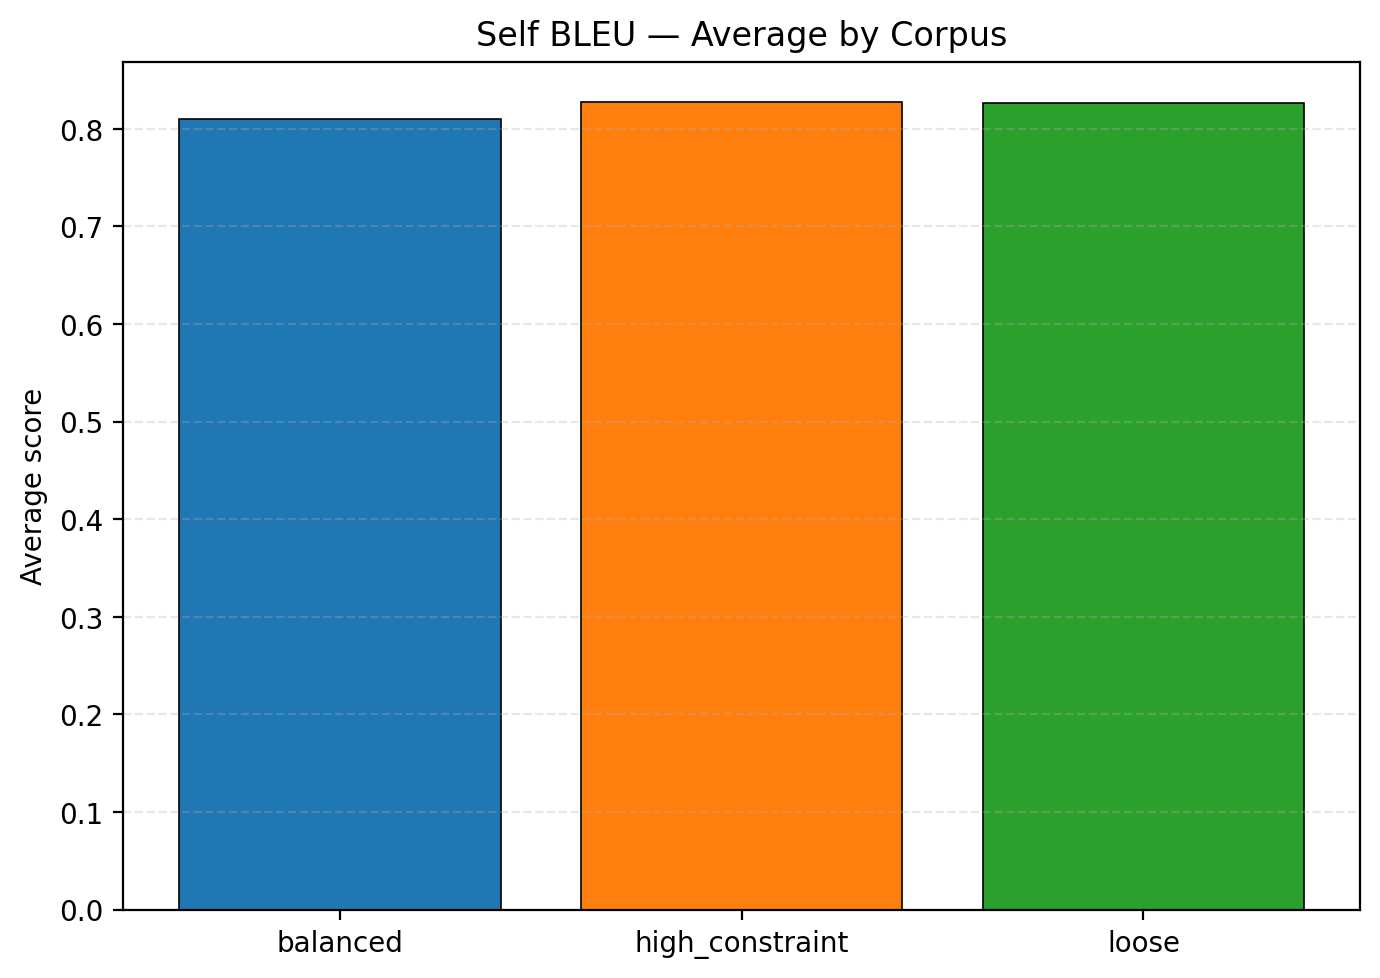
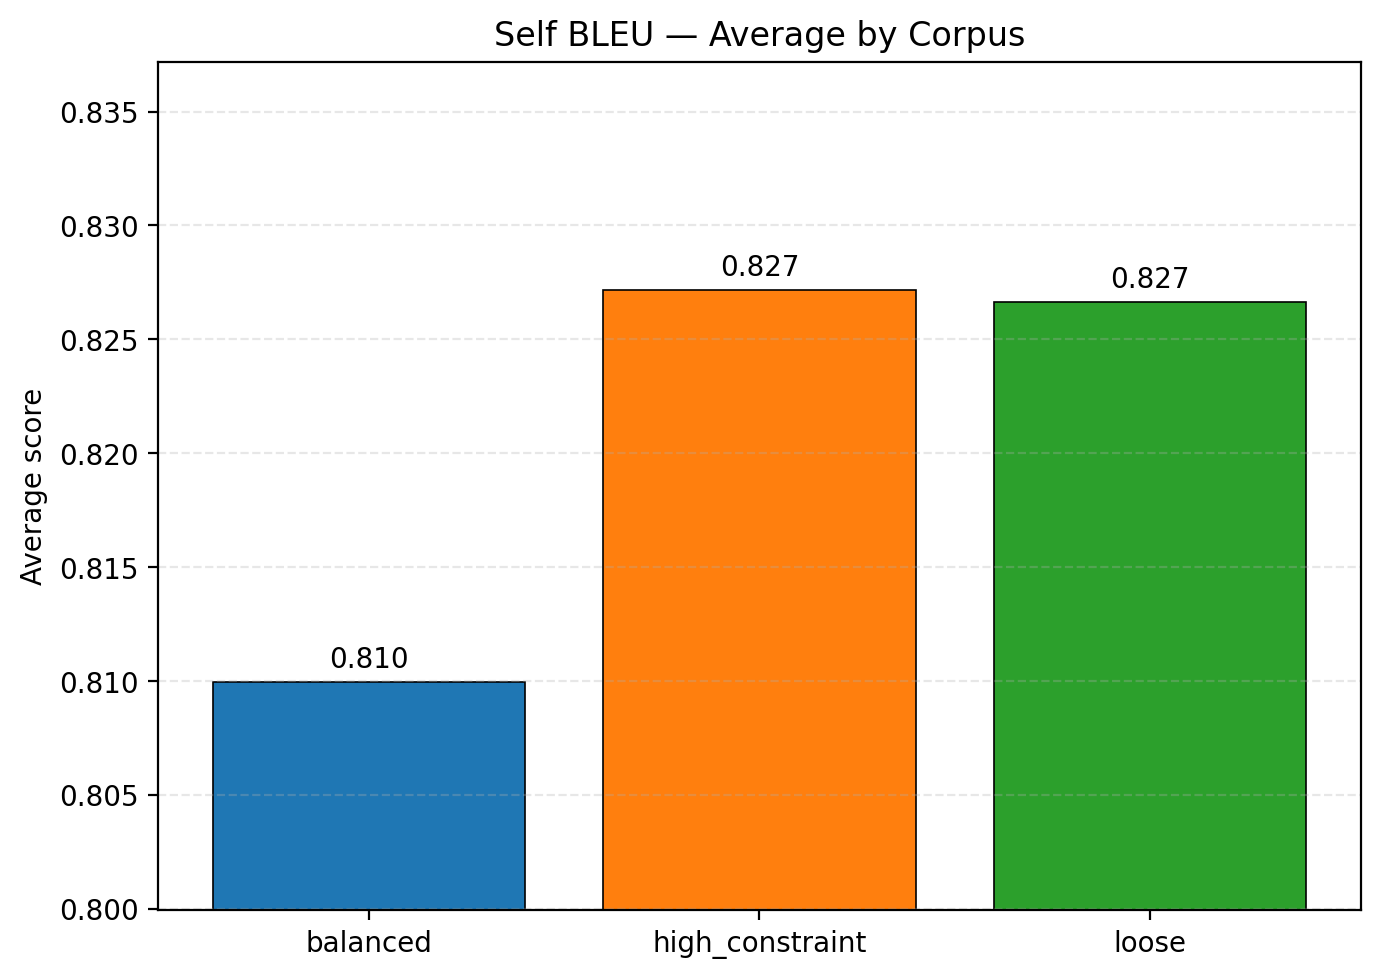
Updated README.md

diff --git a/experiments/selfbleu_distinctn/plot_selfbleu_distinctn.py b/experiments/selfbleu_distinctn/plot_selfbleu_distinctn.py
@@ -9,7 +9,7 @@ Curves (one file each):
   3) 'combined_diversity_vs_size.png'   — Combined Diversity Score vs corpus size
 
 Bars (one file each; averaged across sizes):
-  4) 'self_bleu_avg_by_corpus.png'
+  4) 'self_bleu_avg_by_corpus.png'      — with a tighter y-scale for precision
   5) 'distinct_n_avg_by_corpus.png'
   6) 'combined_diversity_avg_by_corpus.png'
 
@@ -17,7 +17,7 @@ Conventions:
 - X-axis (curves): corpus sizes [50, 100, 200, 300, 400, 500]
 - Colours (fixed): balanced=#1f77b4, high_constraint=#ff7f0e, loose=#2ca02c
 - Grammar normalisation: 'high' → 'high_constraint'
-- Use default line thickness and default font sizes.
+- Default line thickness and default font sizes.
 """
 
 from pathlib import Path
@@ -97,8 +97,22 @@ def plot_curve(df: pd.DataFrame, metric_col: str, ylabel: str, title: str, outfi
     plt.close(fig)
 
 
-def plot_bars(means: pd.DataFrame, metric_col: str, pretty: str, outfile: Path) -> None:
-    """Plot a single bar figure (average per corpus). Default Matplotlib styling."""
+def _annotate_bars(ax: plt.Axes, bars, values):
+    """Write numeric values above bars."""
+    for bar, val in zip(bars, values):
+        ax.annotate(
+            f"{val:.3f}" if abs(val) < 1 else f"{val:.2f}",
+            xy=(bar.get_x() + bar.get_width() / 2, bar.get_height()),
+            xytext=(0, 3),
+            textcoords="offset points",
+            ha="center",
+            va="bottom",
+        )
+
+
+def plot_bars(means: pd.DataFrame, metric_col: str, pretty: str, outfile: Path,
+              tighten_scale: bool = False) -> None:
+    """Plot a single bar figure (average per corpus). Optionally tighten y-scale."""
     fig, ax = plt.subplots(figsize=(7, 5))
 
     heights = [
@@ -107,19 +121,28 @@ def plot_bars(means: pd.DataFrame, metric_col: str, pretty: str, outfile: Path) 
         for c in draw_order
     ]
 
-    ax.bar(
-        np.arange(len(draw_order)),
+    x = np.arange(len(draw_order))
+    bars = ax.bar(
+        x,
         heights,
         color=[colour_map[c] for c in draw_order],
         edgecolor="black",
         linewidth=0.6,
     )
 
-    ax.set_xticks(np.arange(len(draw_order)))
+    # Optional: tighter y-scale for better precision (used for Self BLEU)
+    if tighten_scale:
+        ymin, ymax = min(heights), max(heights)
+        pad = 0.01                        # small headroom
+        ax.set_ylim(ymin - pad, ymax + pad)
+
+    ax.set_xticks(x)
     ax.set_xticklabels(draw_order)
     ax.set_ylabel("Average score")
     ax.set_title(f"{pretty} — Average by Corpus")
     ax.grid(True, axis="y", linestyle="--", alpha=0.3)
+
+    _annotate_bars(ax, bars, heights)
 
     fig.tight_layout()
     fig.savefig(outfile, dpi=200, bbox_inches="tight")
@@ -145,9 +168,13 @@ def main() -> None:
 
     # --- Bar plots (averaged across sizes), three separate files
     means = df.groupby("grammar_canon", as_index=False)[metrics].mean()
-    plot_bars(means, col_self_bleu, "Self BLEU", out_self_bleu_bars)
-    plot_bars(means, col_distinct, "Distinct-n", out_distinct_bars)
-    plot_bars(means, col_combined, "Combined Diversity", out_combined_bars)
+
+    # Self BLEU bar plot: tighten y-scale so ~0.03 changes are clearly visible
+    plot_bars(means, col_self_bleu, "Self BLEU", out_self_bleu_bars, tighten_scale=True)
+
+    # Distinct-n and Combined: keep default scaling (distinct-n already fine)
+    plot_bars(means, col_distinct, "Distinct-n", out_distinct_bars, tighten_scale=False)
+    plot_bars(means, col_combined, "Combined Diversity", out_combined_bars, tighten_scale=False)
 
     print("Saved figures:")
     for p in [

diff --git a/experiments/pairwise_diversity/plot_pairwise_diversity_LLM_curves.py b/experiments/pairwise_diversity/plot_pairwise_diversity_LLM_curves.py
@@ -24,7 +24,7 @@ size_col = "size"
 metric_col = "mean_diversity_score"  # maps to “Average Diversity Score”
 
 # Sizes to display on the x-axis (others will be ignored)
-x_sizes = [100, 200, 300, 400, 500]
+x_sizes = [50, 100, 200, 300, 400, 500]
 
 # Canonical label mapping (normalises any variants from the CSV)
 canonical = {

diff --git a/README.md b/README.md
@@ -1,20 +1,22 @@
 # Repo Overview
 ```text
 ├── configs
-├── data
-├── evaluation
-├── experiments
+├── data                      # Corpora in Processed, Generated Sessions Examples, Human-made sessions in Raw
+├── evaluation                # Core Metrics in Utils (RAGAS, Self-BLEU, CG, ...) , Corpora Analysis (Clustering, Stats, ...)
+├── experiments               # Experiment Results
+├── field_adapters            # Metadata adapter for corpora
 ├── grammar
-├── indexes
-├── notes
+├── indexes                   # Sparse and Dense indexes for all Corpora
 ├── prompts
-├── rag
+├── rag                       # RAG system core modules (excl. prompting, field retriever dictionary)
 ├── requirements.txt
-├── scripts
+├── scripts                   # Old scripts using rrf retriever
+├── scripts2                  # Evaluations 
+├── scripts_implementation    # implementation retrievers and prompting strategies
 ├── setup.py
 ├── src
-├── tests
-├── third_party
+├── tests                     # Testing PSA, Synthetic Corpora Generation Components (Grammar), Retrievers
+├── third_party               # Used for Dense Retriever
 └── venv
 
 ```
@@ -53,8 +55,7 @@ $ python3 -m src.grammar_tools.grammar_generator_dedup \
 
 
 # 2. Analyse Corpuses (Diversity, Reliability, Structure)
-
-• statistics: coverage, standard deviation, entropies, distributions, averages, adherence
+• statistics: coverage, standard deviation, entropies, distributions, averages, adherence, ...
 • DBSCAN: clustering visuals
 ```bash
 $ python -m evaluation.corpus_analysis.run_all_analyses --config configs/corpus_analysis/statistics_analysis_config.yaml
@@ -63,63 +64,63 @@ $ python -m evaluation.corpus_analysis.clustering.run_dbscan_clustering --config
 
 
 # 3. Building Sparse and Dense Indexes
+
+## Indexing Synthetic Corpus
 ```bash
 $ python3 scripts/01_build_indexes.py \
     --semantic-build-config configs/indexing/build_semantic_index.yaml \
     --sparse-build-config configs/indexing/build_sparse_index_meta.yaml
 ```
 
-python3 scripts/01_build_indexes.py \
-    --semantic-build-config configs/indexing/build_semantic_index.yaml \
-    --sparse-build-config configs/indexing/build_sparse_index_meta.yaml \
-    --force
-
-python3 scripts/01_build_indexes.py \
+## Indexing Manual Corpus
+```bash
+$ python3 scripts/01_build_indexes.py \
     --semantic-build-config configs/indexing/manual_semantic_index.yaml \
     --sparse-build-config configs/indexing/manual_sparse_index.yaml \
     --force
+```
 
 
 # 4. Generate Sessions with RAG
 
-pick size and topk
+## Generating Session for Reliability and Structure Evaluation
+top k = 10
+temperature = 0.2
 ```bash
 $ python scripts2/00_generate_outputs.py
+```
+
+## Generating Session for Diversity Evaluation
+top k = 10
+temperature = 0.7
+
+```bash
+$ python scripts2/02_generate_outputs_multi.py
 ```
 
 # 5. Evaluate Diversity 
 
 ## SelfBleu + Disctinct-n
-pick json path to file based on size and topk
+
 ```bash
-$ python scripts2/eval_combined_diversity_100.py
+$ python3 scripts2/eval_selfbleu_distinctn_diversity.py
 ```
 
 ## Diversity Index
 ```bash
-python scripts2/eval_diversity_vs_size.py \
-  --inputs experiments/evaluation_sessions_set_k10_size100_samples3_20250907_213941.json \
-          experiments/evaluation_sessions_set_k10_size300_samples3_20250907_220445.json \
-          experiments/evaluation_sessions_set_k10_size500_samples3_20250907_234238.json \
+python3 scripts2/eval_diversity_vs_size.py \
+  --input experiments/master_evaluation_file.json \
   --max-queries 4 \
   --min-samples 3
 ```
 
+## Pairwise LLM Judge
+```bash
+$ python3 scripts2/eval_pairwise_diversity.py --input experiments/master_evaluation_file.json
+```
+
 
 # 6. Evaluate Reliability
-
-python scripts2/eval_reliability_with_ragas.py \
-  --input experiments/sample_query_1/evaluation_sessions_set_k10_size500_20250907_180221.json \
-  --k 10 \
-  --show-per-item \
-  --csv experiments/ragas_scores_size500.csv
-
-python scripts2/eval_reliability_with_ragas.py \
-  --inputs evaluation_sessions_test.json \
-  --k 10 \
-  --by-query \
-  --csv experiments/ragas_scores_all.csv \
-  --plot-dir experiments/
 
 ## one file
 python scripts2/eval_reliability_with_ragas.py \
@@ -128,7 +129,7 @@ python scripts2/eval_reliability_with_ragas.py \
 
 ## many files (different sizes/grammars)
 python scripts2/eval_reliability_with_ragas.py \
-  --inputs experiments/sample_query_1/*.json \
+  --inputs experiments/dynamic_fusion_retrieval/*.json \
   --k 10 --by-query --csv experiments/ragas_scores_all.csv --plot-dir experiments/
 
 ## RAGAS with Raw Corpus
@@ -138,16 +139,23 @@ python scripts2/eval_reliability_with_ragas.py \
 
 ## Plot RAGAS with std
 python scripts2/plot_ragas_with_std.py \
-  --csv experiments/results/ragas_scores_all_1.csv \
+  --csv experiments/ragas/ragas_scores_all_1.csv \
   --out-csv experiments/ragas_agg_with_std_shade.csv \
   --out-dir experiments/plots
 
+# 7. Evaluate Structure
 
+## Completeness Gain for Structure
+```Bash
+$ python3 scripts2/eval_completeness_gain.py
+```
 
+## Programmatic Structure Adherence
+```bash
+$ python3 scripts2/eval_psa_structure.py
+```
 
-python scripts2/eval_diversity_vs_size.py --inputs experiments/evaluation_sessions_set_k10_size300_samples3_20250907_220445.json --min-samples 3 --max-queries 4 --print-buckets --cross-summary
-
-
+# Several Evaluations RunMarkDown
 ```bash
 $ python3 scripts2/eval_pairwise_diversity.py --input experiments/master_evaluation_file.json
 $ python scripts2/eval_reliability_with_ragas.py \
